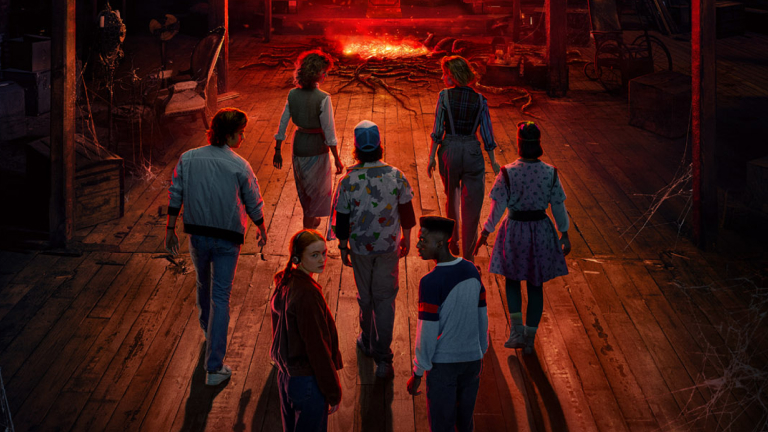
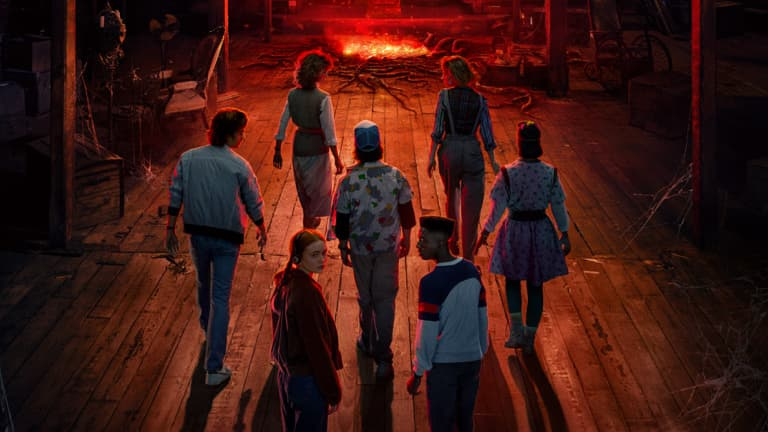
Retina fix and scroll-up addition

diff --git a/src/css/hero.css b/src/css/hero.css
@@ -208,3 +208,31 @@
   }
 }
 
+.scroll-up-button{
+  display: inline-block;
+  background: linear-gradient(141.22deg, #ffc226 9.4%, #f84119 91.91%);
+  width: 50px;
+  height: 50px;
+  text-align: center;
+  border-radius: 4px;
+  position: fixed;
+  bottom: 30px;
+  right: 30px;
+  transition: all 250ms cubic-bezier( .42, 0, .58, 1 );
+  opacity: 0;
+  visibility: hidden;
+  z-index: 1000;
+}
+.scroll-up-button::after{
+  content: var(--arrow-content, "\2191");
+  font-family: 'Roboto';
+  font-weight: normal;
+  font-style: normal;
+  font-size: 2em;
+  line-height: 50px;
+  color: #fff;
+}
+.scroll-up-button.show{
+  opacity: 1;
+  visibility: visible;
+}

diff --git a/src/js/hero/scroll-up.js b/src/js/hero/scroll-up.js
@@ -1,0 +1,14 @@
+const scrollBtn = document.querySelector('.scroll-up-button');
+
+window.addEventListener('scroll', function() {
+    if (window.scrollY > 300) {
+      scrollBtn.classList.add('show');
+    } else {
+      scrollBtn.classList.remove('show');
+    }
+  });
+  
+  scrollBtn.addEventListener('click', function(e) {
+    e.preventDefault();
+    window.scrollTo({ top: 0, behavior: 'smooth' });
+  });

diff --git a/src/js/hero/base-hero.js b/src/js/hero/base-hero.js
@@ -1,2 +1,3 @@
 import './get-trailer';
 import './example-hero';
+import './scroll-up';

diff --git a/src/partials/hero.html b/src/partials/hero.html
@@ -33,3 +33,4 @@
     </p>
   </div>
 </div>
+<a class="scroll-up-button"></a>
